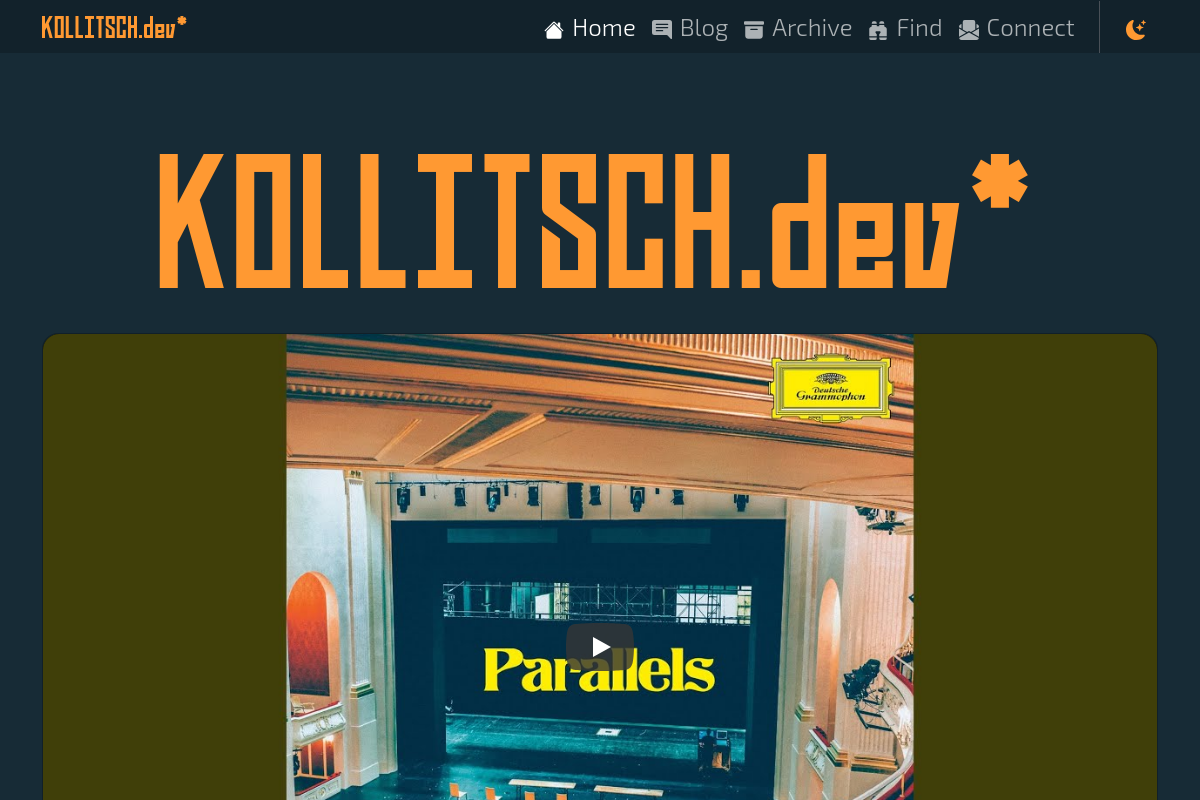
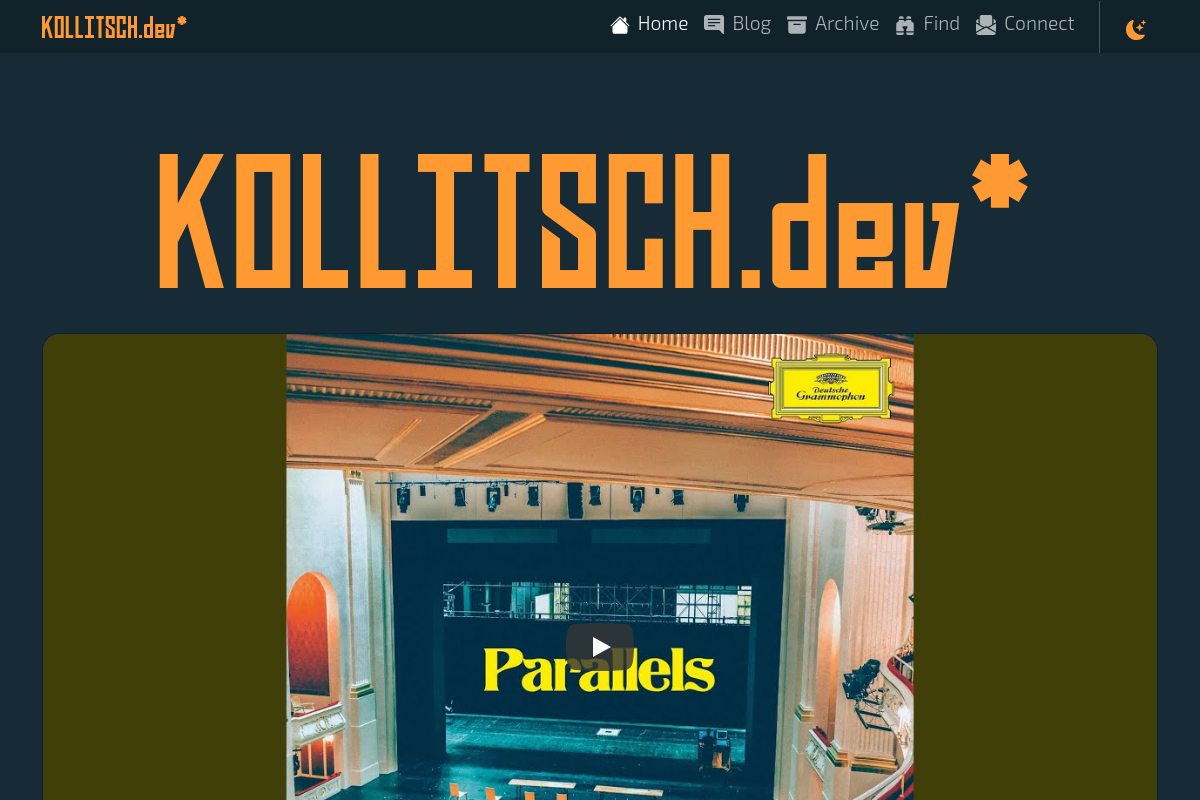
chore(release): v2024.1.68

Changed region(s): [[0.4317, 0.0, 0.8942, 0.0625]]

diff --git a/CHANGELOG.md b/CHANGELOG.md
@@ -1,4 +1,19 @@
 Changelog
+## [2024.1.68](https://github.com/davidsneighbour/kollitsch.dev/compare/v2024.1.67...v2024.1.68) (2024-05-19)
+
+
+### Theme
+
+* **fix:** headline level on single post pages to h1 ([e59aeb2](https://github.com/davidsneighbour/kollitsch.dev/commit/e59aeb2e3c0c4244d0b8f0eb8ed3183c4894e045)), closes [#965](https://github.com/davidsneighbour/kollitsch.dev/issues/965)
+* **fix:** proper headline level for previews ([aa00e71](https://github.com/davidsneighbour/kollitsch.dev/commit/aa00e713942408c494e9caebf68ef0a2dee7320a))
+* **fix:** remove id from inner themeswitcher div ([d795b74](https://github.com/davidsneighbour/kollitsch.dev/commit/d795b744f0c4805a53f200aa1e67e1b416fc7471))
+* **refactor:** more of styles moving around ([6b088bf](https://github.com/davidsneighbour/kollitsch.dev/commit/6b088bf477c323095f328820be4a5b112fba0951))
+
+
+### Chore
+
+* **screenshots:** add screenshot for 2024-05-19 ([f618a5d](https://github.com/davidsneighbour/kollitsch.dev/commit/f618a5dcd36017f1332c02d9a949ddcbc04a5663))
+
 ## [2024.1.67](https://github.com/davidsneighbour/kollitsch.dev/compare/v2024.1.66...v2024.1.67) (2024-05-18)
 
 
